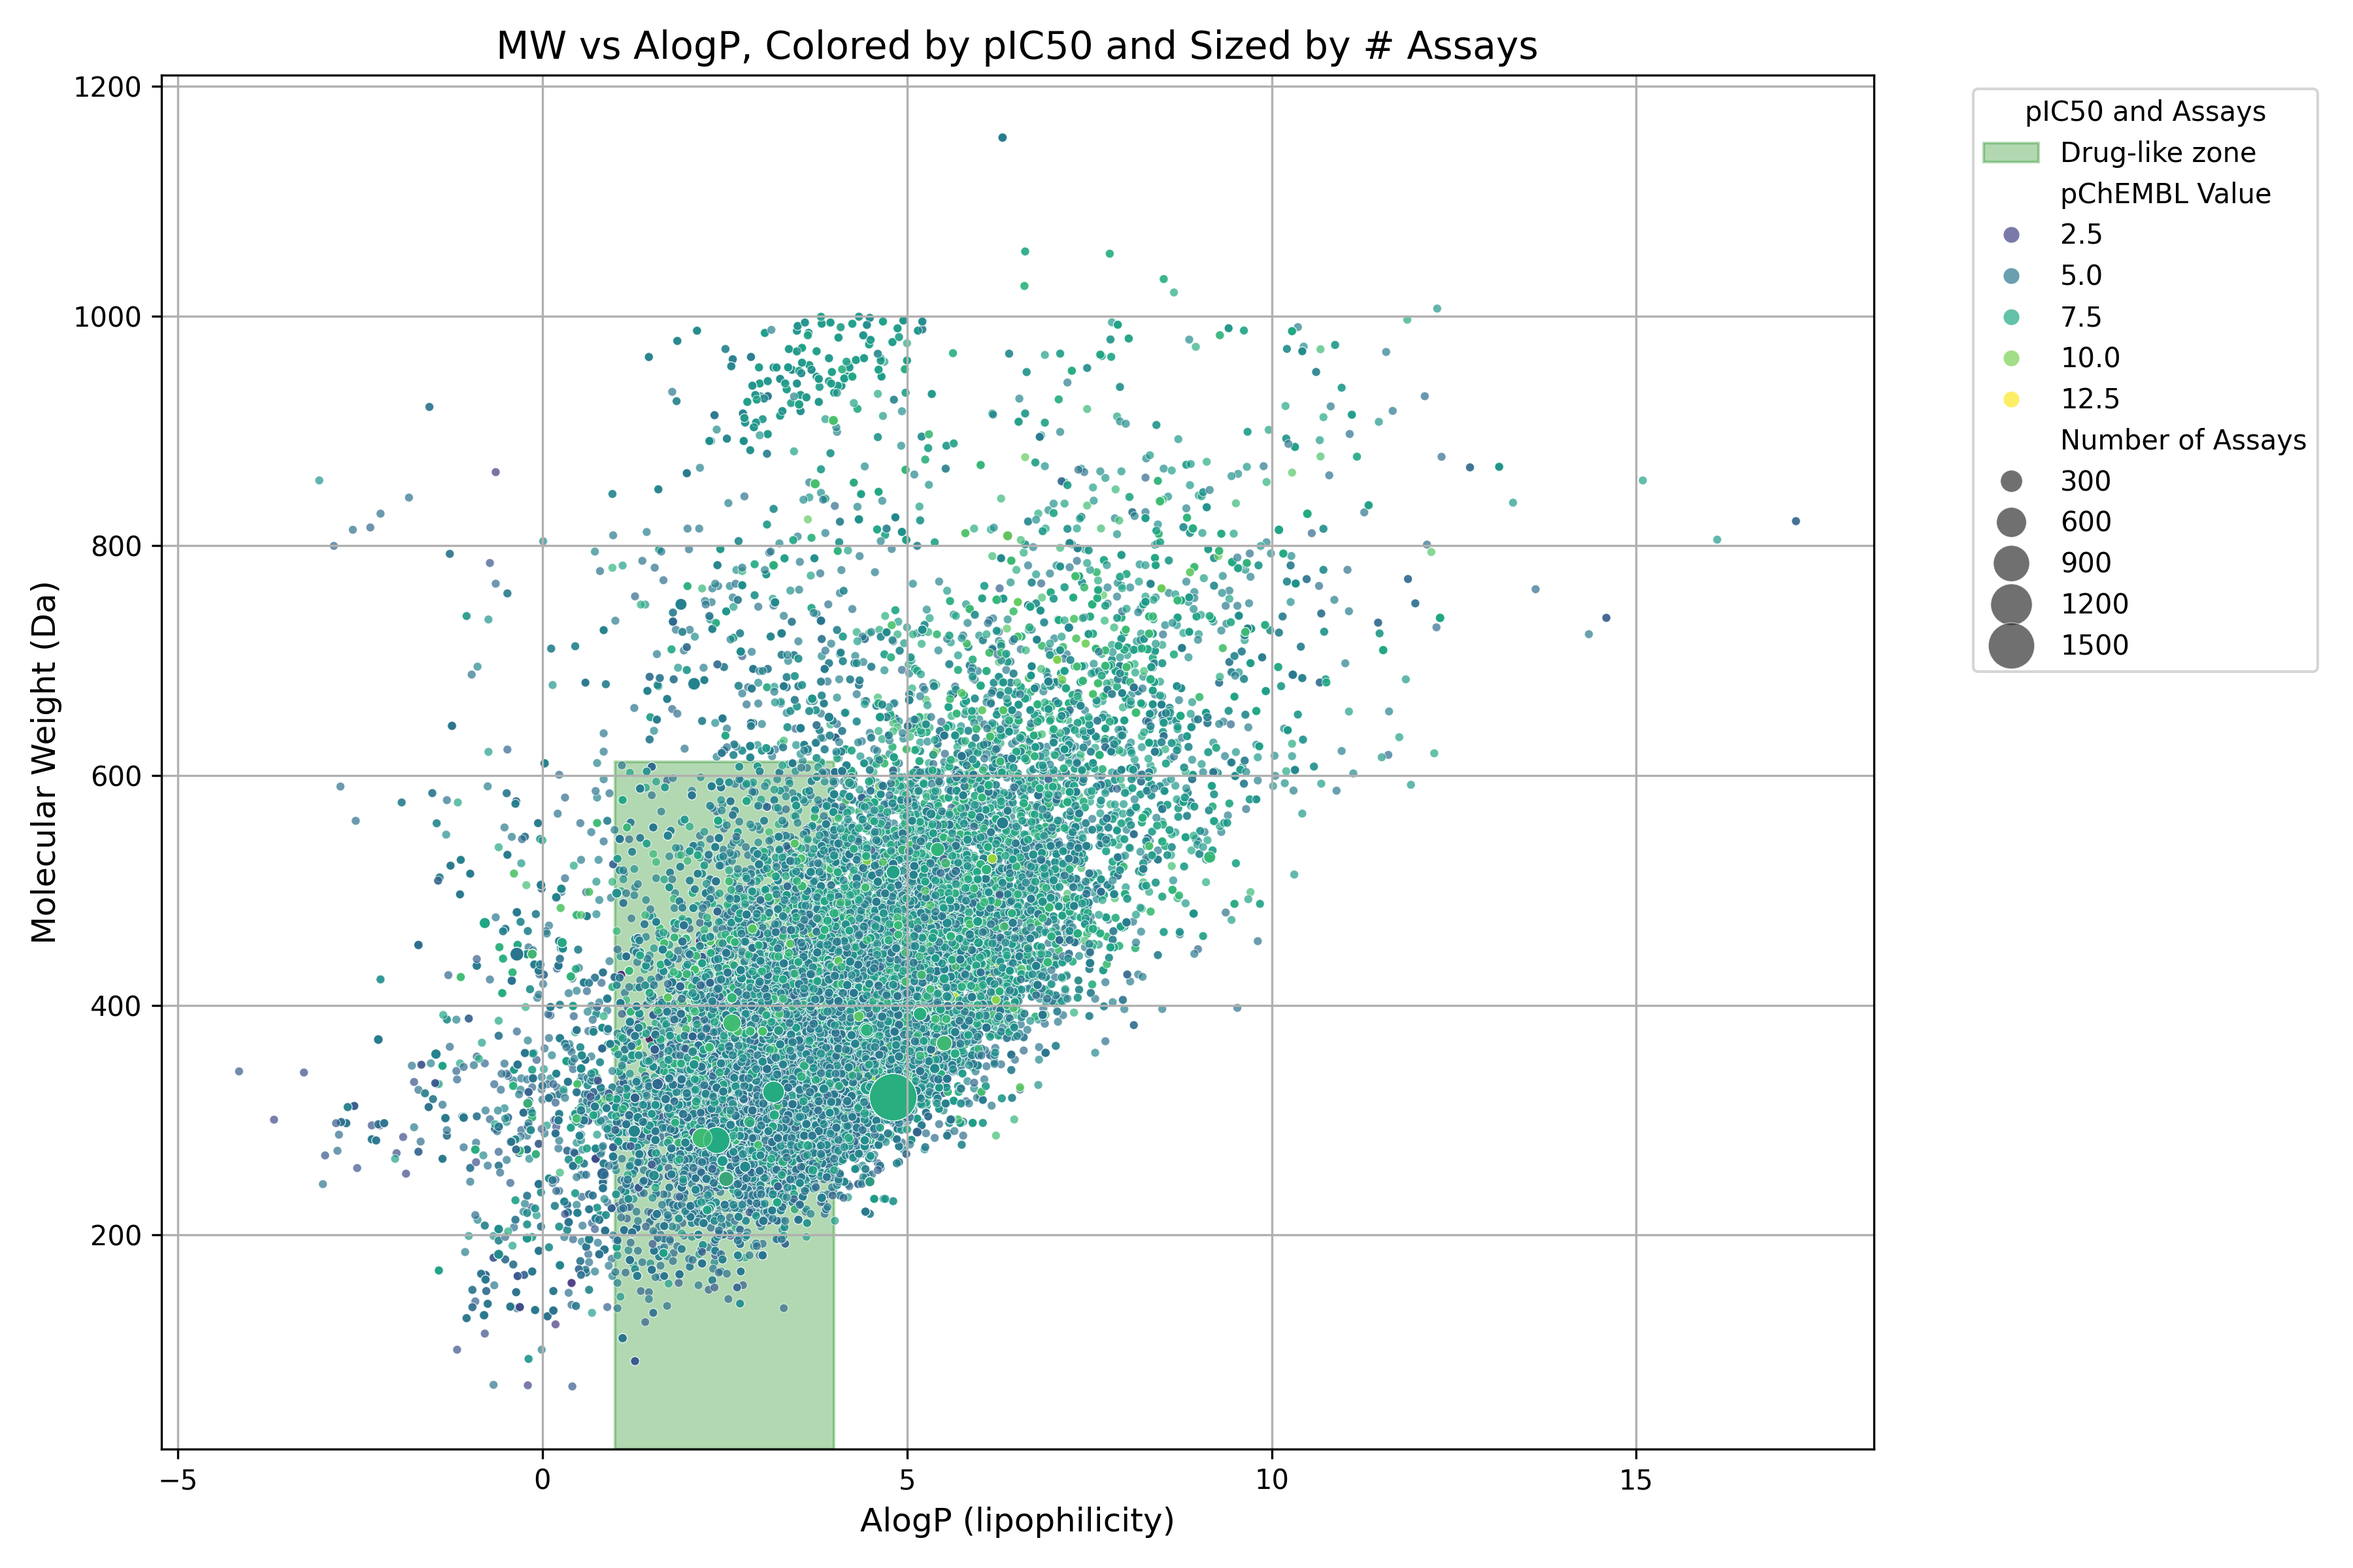
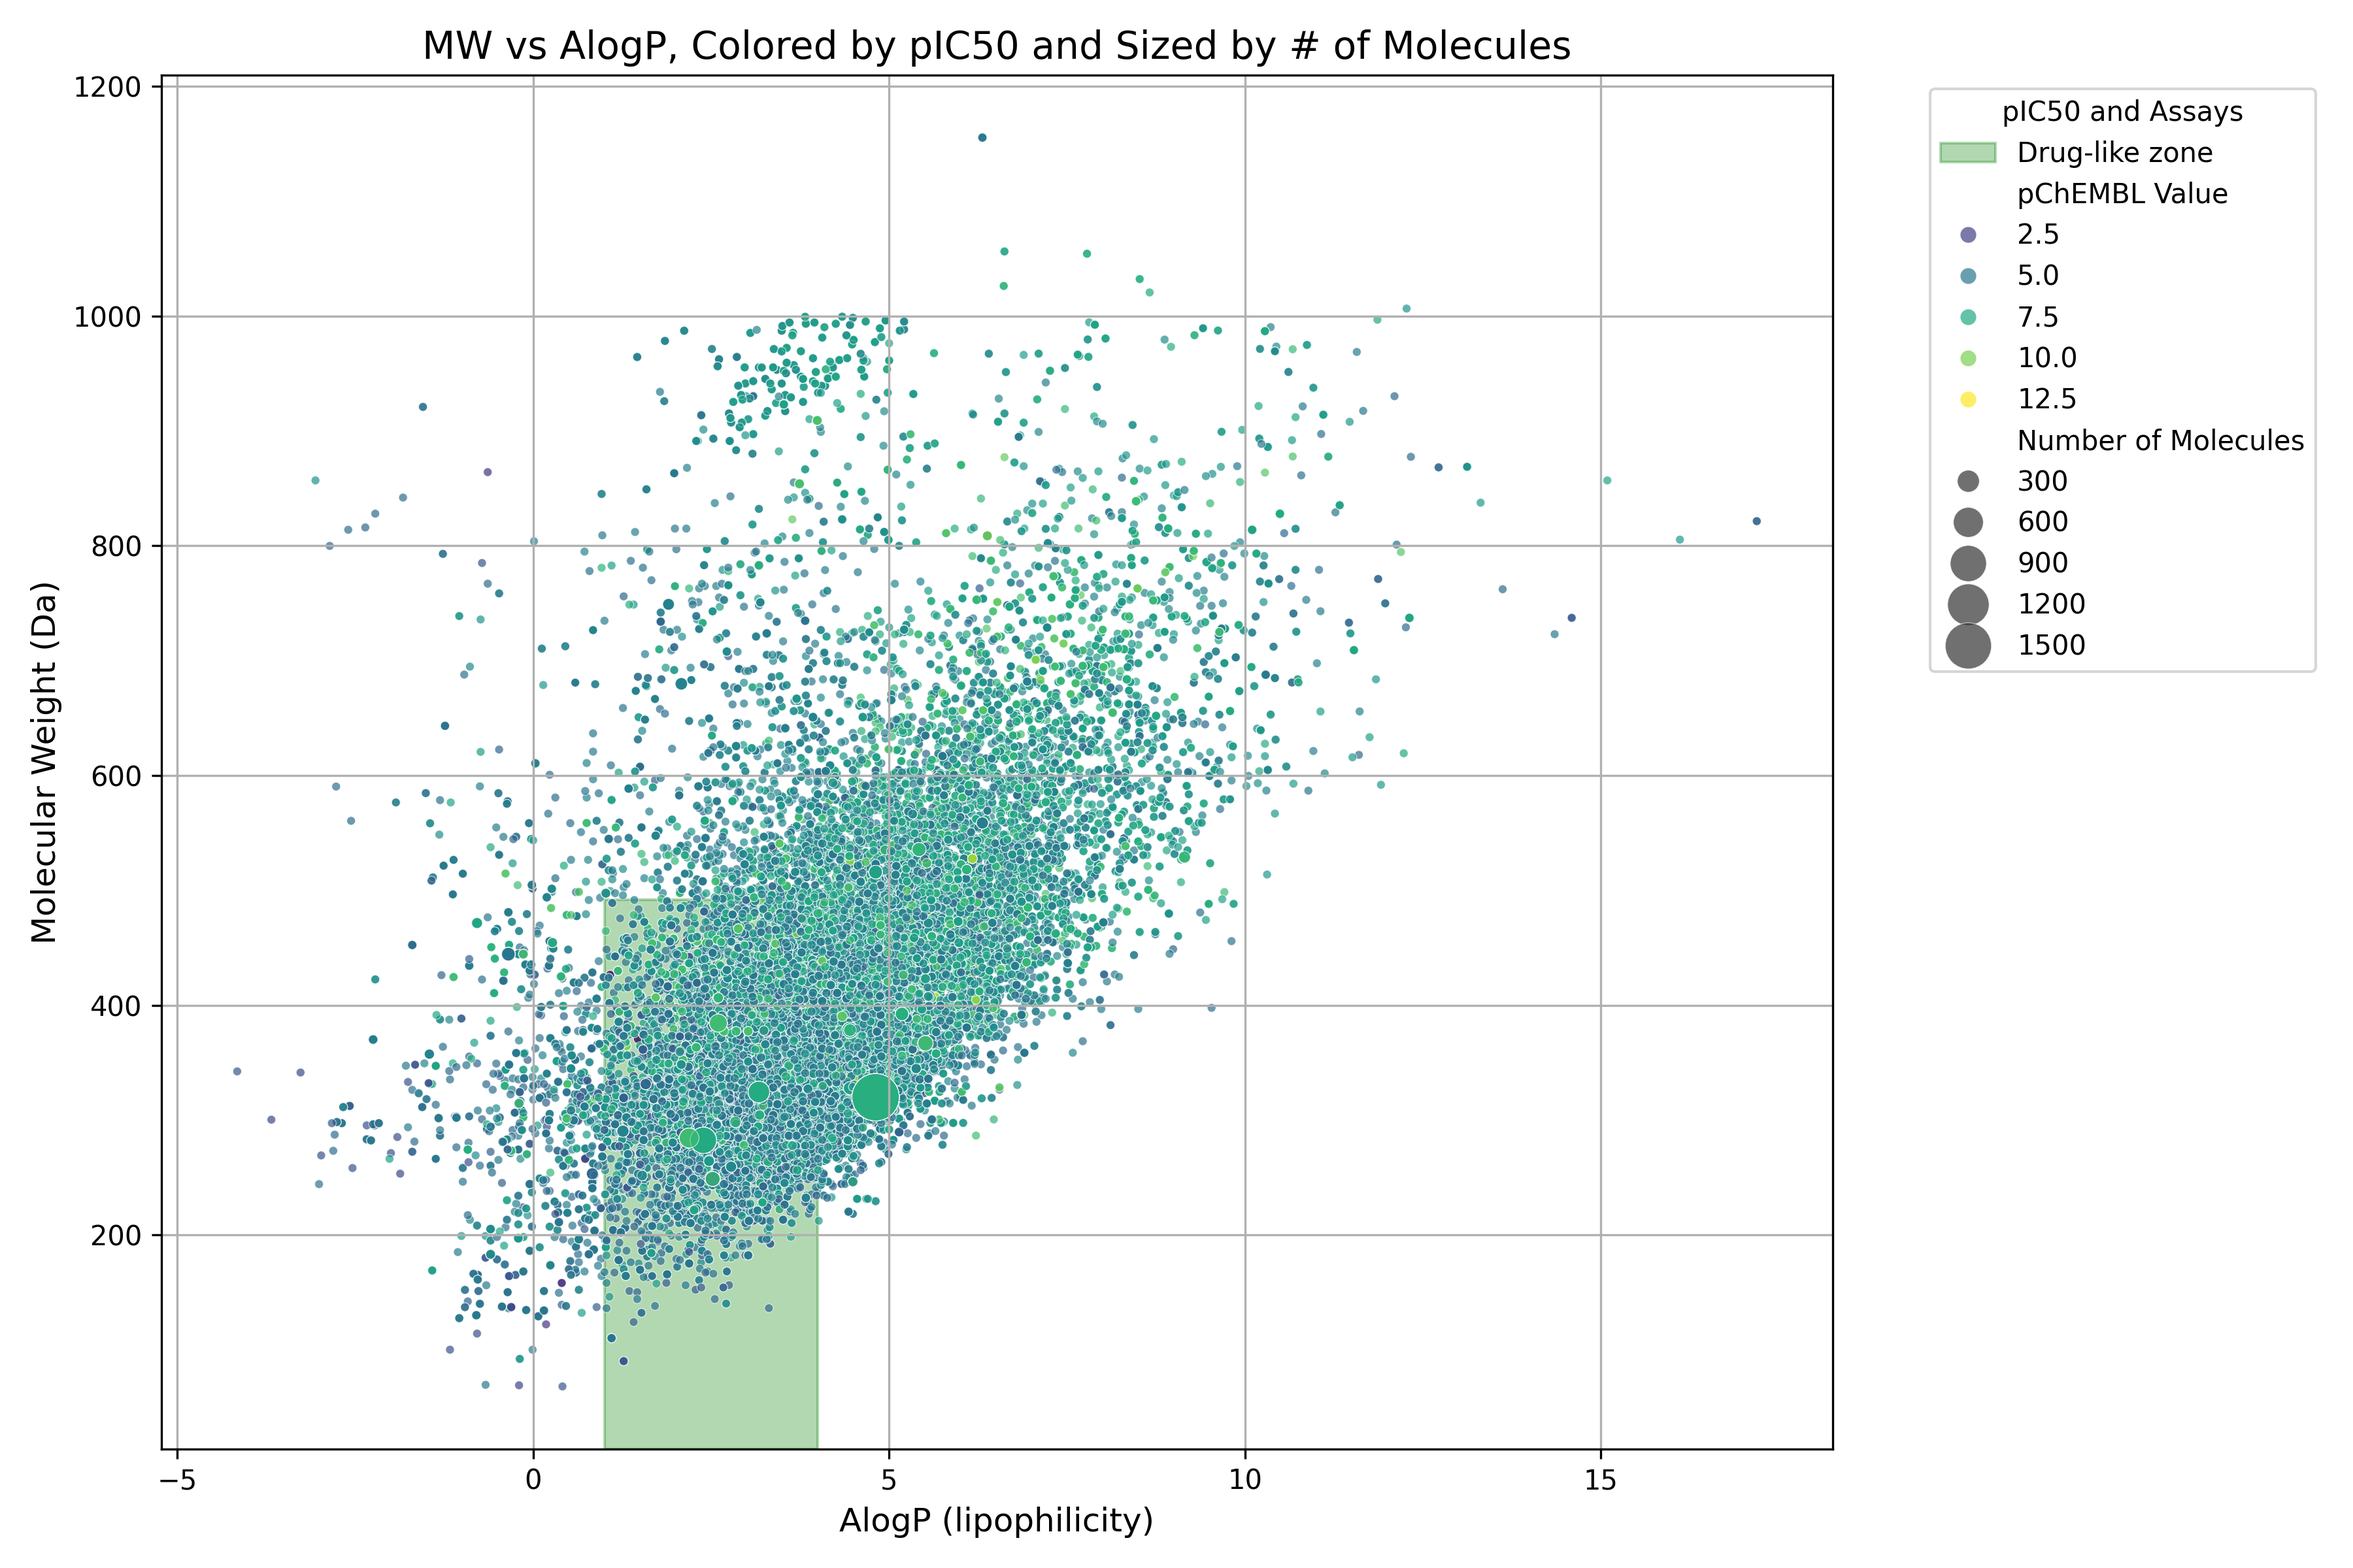
Changed excel files and added code

diff --git a/Visualizations/scripts_viz/mw_alog_scatter_viz.py b/Visualizations/scripts_viz/mw_alog_scatter_viz.py
@@ -1,24 +1,31 @@
+import re
+import pandas as pd
+import numpy as np
+import seaborn as sns
+import matplotlib.pyplot as plt
+from matplotlib.colors import TwoSlopeNorm
+
 # Scatterplot of Molecular Weight (MW) vs AlogP ---------------------------------
 # Load the data
 data_path = "/Users/victoriamedina/Thesis_Project/Thesis/Visualizations/chembl.csv"
 data = pd.read_csv(data_path)
 
 # Count number of assays per molecule
-assay_counts = data["Molecule_ChEMBL_ID"].value_counts().rename("Number of Assays")
-data = data.merge(assay_counts, left_on="Molecule_ChEMBL_ID", right_index=True)
+molecule_counts = data["Molecule_ChEMBL_ID"].value_counts().rename("Number of Molecules")
+data = data.merge(molecule_counts, left_on="Molecule_ChEMBL_ID", right_index=True)
 
 # Plot setup
 plt.figure(figsize=(12, 8))
 
-# Add shaded "drug-like" zone: AlogP –1 to 5, MW ≤ 500
-plt.axvspan(1, 4, ymin=0, ymax=500/1000, color='green', alpha=0.3, label="Drug-like zone")
+# Add shaded "drug-like" zone: AlogP 1 to 4, MW ≤ 500
+plt.axvspan(1, 4, ymin=0, ymax=400/1000, color='green', alpha=0.3, label="Drug-like zone")
 
 # Scatterplot
 sns.scatterplot(
     data=data,
     x="AlogP",
     y="Molecular Weight",
-    size="Number of Assays",
+    size="Number of Molecules",
     hue="pChEMBL Value",
     palette="viridis",
     sizes=(10, 300),
@@ -28,7 +35,7 @@ sns.scatterplot(
 # Customize
 plt.xlabel('AlogP (lipophilicity)', fontsize=12)
 plt.ylabel('Molecular Weight (Da)', fontsize=12)
-plt.title('MW vs AlogP, Colored by pIC50 and Sized by # Assays', fontsize=14)
+plt.title('MW vs AlogP, Colored by pIC50 and Sized by # of Molecules', fontsize=14)
 plt.legend(title='pIC50 and Assays', bbox_to_anchor=(1.05, 1), loc='upper left')
 plt.grid(True)
 plt.tight_layout()
